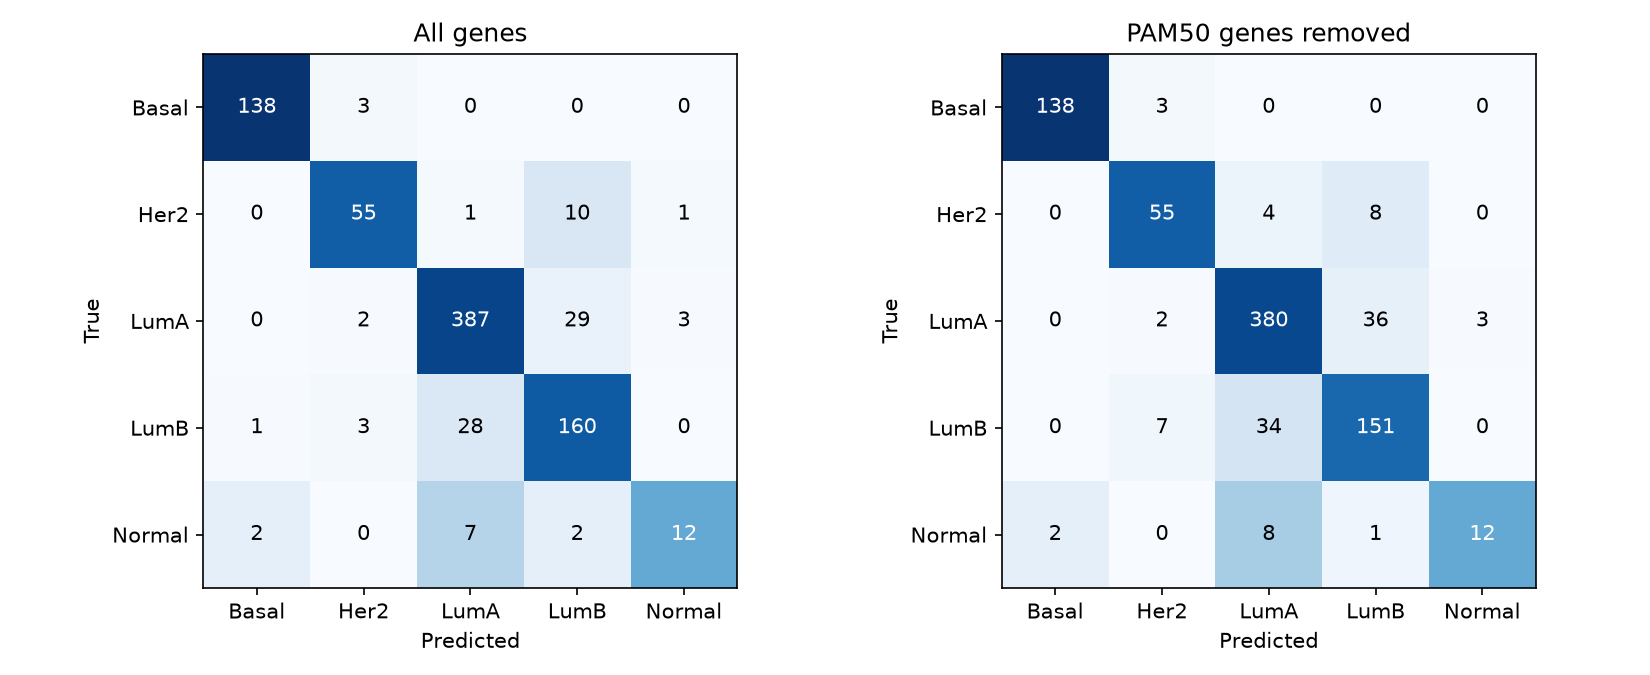
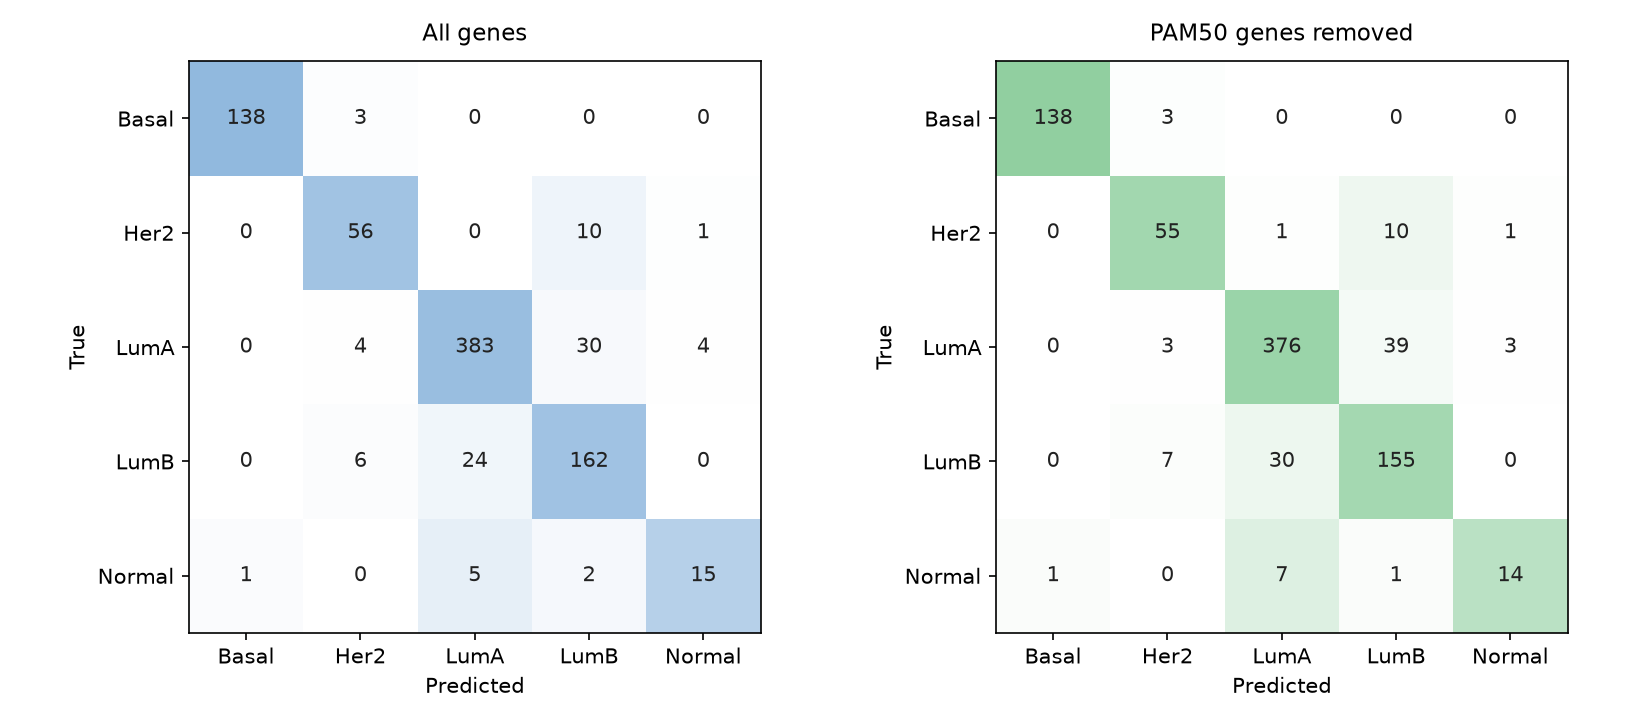
Update charts

diff --git a/charts.py b/charts.py
@@ -2,6 +2,7 @@ import os
 import numpy as np
 import pandas as pd
 import matplotlib.pyplot as plt
+from matplotlib.colors import LinearSegmentedColormap
 from scipy import stats
 
 os.makedirs("figures", exist_ok=True)
@@ -12,7 +13,7 @@ paired = pd.read_csv("results/paired_tests.csv")
 # 1. k sensitivity, with the spread across folds
 fig, ax = plt.subplots(figsize=(7, 4))
 k_vals = sorted(ks["K"].unique())
-for name, color, shift in [("All genes", "#4c78a8", -0.04), ("PAM50 removed", "#e45756", 0.04)]:
+for name, color, shift in [("All genes", "#d4809a", -0.04), ("PAM50 removed", "#7696DF", 0.04)]:
     d = ks[ks["Dataset"] == name].sort_values("K")
     ax.errorbar(np.arange(len(k_vals)) + shift, d["Balanced accuracy"], yerr=d["CV SD"],
                 marker="o", capsize=3, label=name, color=color)
@@ -41,19 +42,24 @@ sds = [0 if pd.isna(summary.loc[r, "SD"]) else summary.loc[r, "SD"]
        for r, _ in rows]
 y = np.arange(len(rows))[::-1]
 
-fig, ax = plt.subplots(figsize=(7, 4))
-ax.errorbar(vals, y, xerr=sds, fmt="o", capsize=4, color="#4c78a8")
-for yi, v in zip(y, vals):
-    ax.text(v, yi + 0.18, f"{v:.3f}", ha="center", fontsize=9)
+fig, ax = plt.subplots(figsize=(10, 5.5))
+ax.errorbar(vals, y, xerr=sds, fmt="o",
+            markersize=7, capsize=5, color="#4c78a8")
+for yi, v, s in zip(y, vals, sds):
+    # value label sits to the right of the error bar, clear of the title
+    ax.text(v + s + 0.002, yi, f"{v:.3f}", va="center", fontsize=10)
 ax.set_yticks(y)
-ax.set_yticklabels([label for _, label in rows])
-ax.set_xlim(0.80, 0.90)
+ax.set_yticklabels([label for _, label in rows], fontsize=10)
+# room above the top row and below the bottom row
+ax.set_ylim(-0.7, len(rows) - 0.3)
+ax.set_xlim(0.80, 0.905)
 ax.set_xlabel("Balanced accuracy")
-ax.set_title("Balanced accuracy by gene set (logistic regression)", fontsize=10)
-fig.text(0.01, 0.01,
+ax.set_title("Balanced accuracy by gene set (logistic regression)",
+             fontsize=11, pad=14)
+fig.text(0.01, 0.015,
          "Bars: SD across 10 repeats, or across 100 random draws. *Single 5-fold run.",
-         fontsize=7)
-plt.tight_layout(rect=(0, 0.04, 1, 1))
+         fontsize=8)
+plt.tight_layout(rect=(0, 0.05, 1, 1))
 plt.savefig("figures/balanced_accuracy.png", dpi=150)
 plt.close()
 
@@ -73,6 +79,50 @@ ax.set_title(
     "Paired comparisons (corrected resampled t-test, 10 x 5-fold CV)", fontsize=10)
 plt.tight_layout()
 plt.savefig("figures/paired_differences.png", dpi=150)
+plt.close()
+
+# 4. confusion matrices (logistic regression, single 5-fold run, seed 42)
+# Counts are copied from the model.py output. Rows = true subtype, columns = predicted.
+labels = ["Basal", "Her2", "LumA", "LumB", "Normal"]
+cms = {
+    "All genes": (
+        np.array([[138, 3, 0, 0, 0],
+                  [0, 56, 0, 10, 1],
+                  [0, 4, 383, 30, 4],
+                  [0, 6, 24, 162, 0],
+                  [1, 0, 5, 2, 15]]),
+        LinearSegmentedColormap.from_list(
+            "pastel_blue", ["#ffffff", "#8fb8de"]),
+    ),
+    "PAM50 genes removed": (
+        np.array([[138, 3, 0, 0, 0],
+                  [0, 55, 1, 10, 1],
+                  [0, 3, 376, 39, 3],
+                  [0, 7, 30, 155, 0],
+                  [1, 0, 7, 1, 14]]),
+        LinearSegmentedColormap.from_list(
+            "pastel_green", ["#ffffff", "#8fcf9f"]),
+    ),
+}
+
+fig, axes = plt.subplots(1, 2, figsize=(11, 4.8))
+for ax, (title, (cm, cmap)) in zip(axes, cms.items()):
+    # colour = share of each true subtype
+    share = cm / cm.sum(axis=1, keepdims=True)
+    ax.imshow(share, cmap=cmap, vmin=0, vmax=1)
+    for i in range(5):
+        for j in range(5):
+            ax.text(j, i, cm[i, j], ha="center", va="center", fontsize=10,
+                    color="#222222")
+    ax.set_xticks(range(5))
+    ax.set_xticklabels(labels)
+    ax.set_yticks(range(5))
+    ax.set_yticklabels(labels)
+    ax.set_xlabel("Predicted")
+    ax.set_ylabel("True")
+    ax.set_title(title, fontsize=11, pad=10)
+plt.tight_layout()
+plt.savefig("figures/confusion_matrices.png", dpi=150)
 plt.close()
 
 print("Figures saved.")
